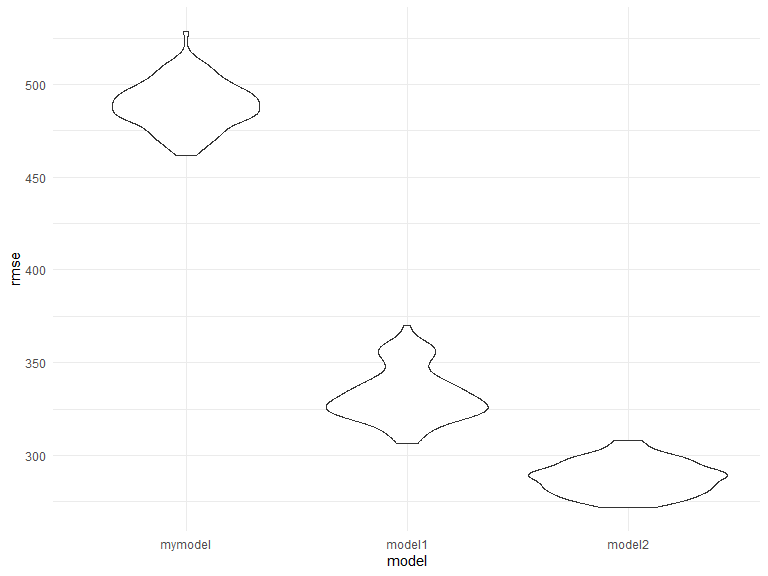
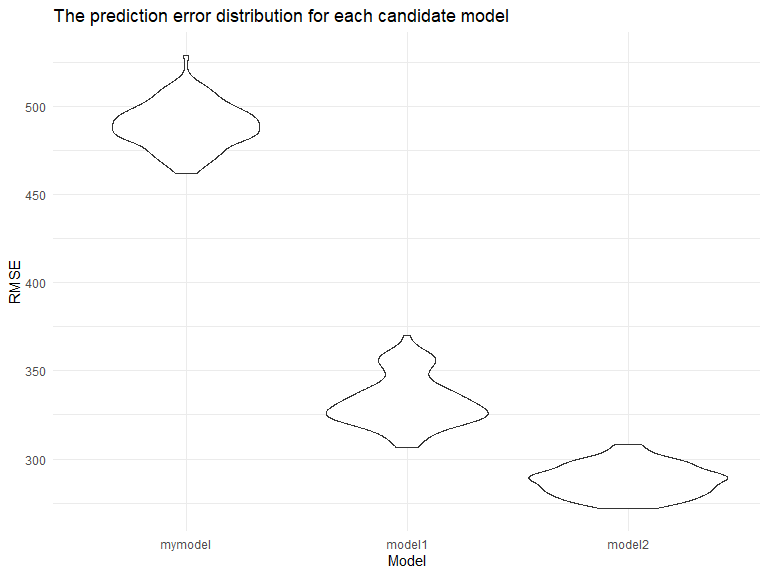
Make a few changes to the linear models and add titles and axis labels for plots.

diff --git a/p8105_hw6_yx2711.md b/p8105_hw6_yx2711.md
@@ -27,7 +27,7 @@ weather_df =
 
 ``` r
 weather_df %>% 
-  modelr::bootstrap(n = 1000) %>% 
+  modelr::bootstrap(n = 5000) %>% 
   mutate(
     models = map(strap, ~lm(tmax ~ tmin, data = .x) ),
     results = map(models, broom::glance)) %>% 
@@ -50,7 +50,7 @@ similar approach, with a bit more wrangling before we make our plot.
 
 ``` r
 weather_df %>% 
-  modelr::bootstrap(n = 1000) %>% 
+  modelr::bootstrap(n = 5000) %>% 
   mutate(
     models = map(strap, ~lm(tmax ~ tmin, data = .x) ),
     results = map(models, broom::tidy)) %>% 
@@ -267,14 +267,17 @@ have the lowest odds for solving homicides comparing to female victims,
 whereas male victims in Albuquerque, NM have the highest odds for
 solving homicides comparing to female victims.
 
-Also, New York, NY has the narrowest confidence interval for the odds
+Also, Chicago, IL has the narrowest confidence interval for the odds
 ratio and Albuquerque, NM has the widest confidence interval for the
 odds ratio. The variation in the estimated ORs for Albuquerque, NM is
-the highest and for New York, NY is the lowest.
+the highest and for Chicago, IL is the lowest.
 
 # Problem 3
 
-Load the data and create the dataframe `birthweight`.
+Load the data and create the dataframe `birthweight`. Mutate categorical
+variables `babysex`, `frace`, `malform`, `mrace` into factor variables
+and recode them using `recode_factor`. Drop all the missing value using
+`drop_na`.
 
 ``` r
 birthweight = read.csv("data/birthweight.csv") %>% 
@@ -297,13 +300,17 @@ mother’s age at delivery, mother’s race, and their interaction as the
 predictors.
 
 ``` r
-mymodel = lm(bwt ~ momage + mrace + momage * mrace, data = birthweight)
+mymodel = lm(bwt ~ momage * mrace, data = birthweight)
 
 birthweight %>% 
   add_residuals(mymodel) %>% 
   add_predictions(mymodel) %>%  
   ggplot(aes(x = pred, y = resid, color = mrace)) +
-  geom_point()
+  geom_point() +
+  labs(
+    title = "Model residuals against fitted values",
+    x = "Fitted values of birthweight",
+    y = "Residuals")
 ```
 
 <img src="p8105_hw6_yx2711_files/figure-gfm/unnamed-chunk-9-1.png" width="90%" />
@@ -318,7 +325,7 @@ model1 = birthweight %>%
   broom::tidy()
 
 model2 = birthweight %>% 
-  lm(bwt ~ bhead + blength + babysex + bhead * blength + bhead * babysex + blength * babysex + bhead * blength * babysex, data = .) %>% 
+  lm(bwt ~ bhead * blength * babysex, data = .) %>% 
   broom::tidy()
 ```
 
@@ -336,16 +343,16 @@ cv_df =
 cv_df = 
   cv_df %>% 
   mutate(
-    mymodel  = map(train, ~lm(bwt ~ momage + mrace + momage * mrace, data = .x)),
+    mymodel  = map(train, ~lm(bwt ~ momage * mrace, data = .x)),
     model1   = map(train, ~lm(bwt ~ blength + gaweeks, data = .x)),
-    model2   = map(train, ~lm(bwt ~ bhead + blength + babysex + bhead * blength + bhead * babysex + blength * babysex + bhead * blength * babysex, data = .x))) %>% 
+    model2   = map(train, ~lm(bwt ~ bhead * blength * babysex, data = .x))) %>% 
   mutate(
     rmse_mymodel = map2_dbl(mymodel, test, ~rmse(model = .x, data = .y)),
     rmse_model1    = map2_dbl(model1, test, ~rmse(model = .x, data = .y)),
     rmse_model2 = map2_dbl(model2, test, ~rmse(model = .x, data = .y)))
 ```
 
-PLot the predicton error distribution for each models.
+Plot the prediction error distribution for each models.
 
 ``` r
 cv_df %>% 
@@ -356,7 +363,12 @@ cv_df %>%
     values_to = "rmse",
     names_prefix = "rmse_") %>% 
   mutate(model = fct_inorder(model)) %>% 
-  ggplot(aes(x = model, y = rmse)) + geom_violin()
+  ggplot(aes(x = model, y = rmse)) + 
+  geom_violin() +
+  labs(
+    title = "The prediction error distribution for each candidate model",
+    x = "Model",
+    y = "RMSE") 
 ```
 
 <img src="p8105_hw6_yx2711_files/figure-gfm/unnamed-chunk-12-1.png" width="90%" />
